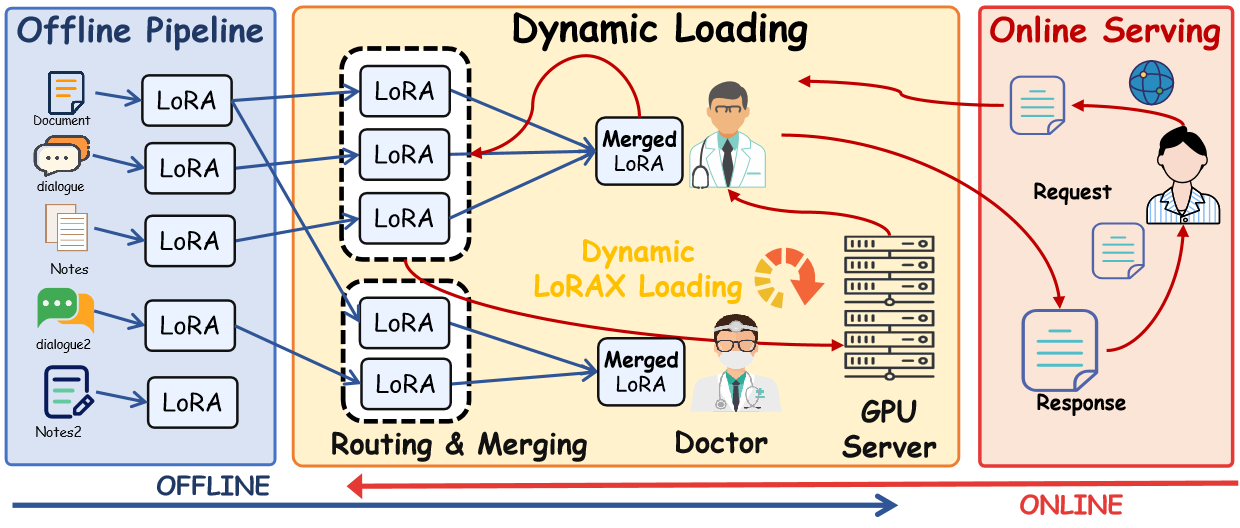
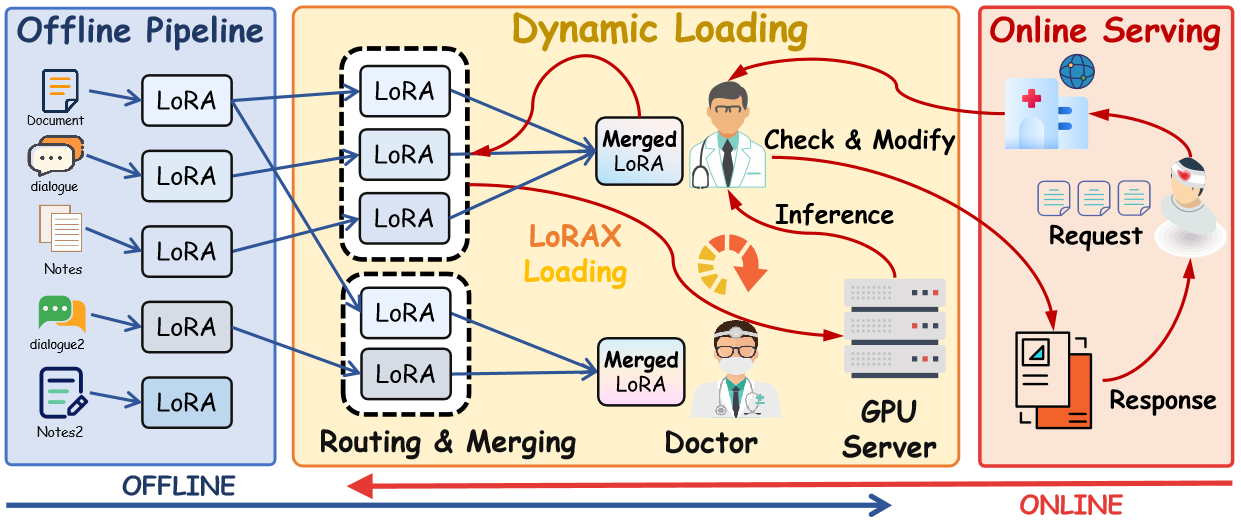
upd

diff --git a/section/section5evaluation.tex b/section/section5evaluation.tex
@@ -123,7 +123,7 @@ LoRA-Merge-TIES & 6.7 $|$ 10.1 $|$ 13.8 & 14.9 $|$ 20.2 $|$ 26.8 & 0.67 $|$ 0.72
 \setlength{\tabcolsep}{4pt}
 \renewcommand\arraystretch{1.06}
 \centering
-\caption{Human evaluation results across LLaMA-3.2-1B/3B and Qwen-2.5-7B. Each cell reports 1B $|$ 3B $|$ 7B. The LLM judge (Qwen3.6-35B-Instruct) rated generated responses on 5-point Likert scales. Preference (\%) is the fraction of blind A/B comparisons favoring the given method.}
+\caption{LLM evaluation results across LLaMA-3.2-1B/3B and Qwen-2.5-7B. Each cell reports 1B $|$ 3B $|$ 7B. The LLM judge (Qwen3.6-35B-Instruct) rated generated responses on 5-point Likert scales. Preference (\%) is the fraction of blind A/B comparisons favoring the given method.}
 \label{tab:ttft}
 \begin{tabular}{c|ccc|c}
 \toprule
@@ -154,7 +154,7 @@ Our Sign-Consistent Fusion (SCF) further improves upon TIES-MERGING, matching th
 The full WebDoctor system, which combines SCF with identity-based DAR routing and physician-specific prompt prefixes, preserves this performance, demonstrating that the merged deployment mode introduces no measurable personalization degradation.
 
 \subsubsection{LLM Judge Evaluation}
-Table~\ref{tab:ttft} presents the human evaluation results across model scales.
+Table~\ref{tab:ttft} presents the LLM evaluation results across model scales.
 The personalization gap between the Base Model and WebDoctor widens with model scale: from 1.4$\rightarrow$3.3 at 1B (+1.9 points) to 2.8$\rightarrow$4.5 at 7B (+1.7 points), suggesting that larger models have more expressive capacity to absorb physician-specific stylistic patterns.
 The Base Model receives a preference share of only 3--8\%, corroborating the automatic findings: physicians do not perceive generic outputs as matching their communication style at any scale.
 Shared LoRA achieves moderate improvement (preference 8--15\%), but still falls well below acceptable levels.
@@ -196,7 +196,7 @@ The merged SCF adapter occupies 6.8\,MB (equivalent to a single adapter) and is 
 End-to-end inference latency with the merged adapter is 0.9/1.8/3.2\,s per response (1B/3B/7B) on a single H20-3e GPU, identical to the individual adapter case, confirming that SCF introduces no computational overhead at inference time.
 
 \subsubsection{Ablation Study}
-We ablate the key design choices of WebDoctor, reporting BLEU-4 and human-evaluated personalization scores (5-point scale) across all three model scales.
+We ablate the key design choices of WebDoctor, reporting BLEU-4 and LLM-evaluated personalization scores (5-point scale) across all three model scales.
 Table~\ref{tab:ablation} (bottom block) presents the results.
 Removing the DAR router and relying solely on a generic prompt prefix (``w/o DAR'') causes a moderate drop across scales (BLEU-4 6.4/10.2/13.9, personalization 3.0/4.0/4.4), confirming that explicit physician identity conditioning via adaptive routing is important for stylistic fidelity.
 Disabling SCF and serving individual adapters (``w/o SCF'') preserves full personalization quality but at the cost of $K$-fold storage and loading overhead, as discussed above.

diff --git a/section/section1intro.tex b/section/section1intro.tex
@@ -4,7 +4,7 @@
 
 The rapid advancement of digital health technologies has propelled internet hospitals into a central role within modern healthcare delivery systems, particularly in regions with high patient-to-physician ratios~\cite{info:doi/10.2196/jmir.7854}. These platforms enable large-scale remote consultations, where patients submit textual descriptions of their symptoms and medical concerns, and licensed physicians respond with diagnostic guidance, treatment recommendations, and follow-up instructions. The doctor-patient dialogue generated in this setting constitutes a uniquely valuable corpus: it captures authentic clinical reasoning, physician-specific communication styles, and institutionally governed medical discourse at substantial scale.
 
-Large language models (LLMs)~\cite{touvronLlama2Open2023} have demonstrated remarkable capabilities across a wide range of natural language processing tasks, including clinical knowledge encoding~\cite{singhalLargeLanguageModels2023} and medical dialogue generation~\cite{zengMedDialogLargescaleMedical2020}. In the context of internet hospitals, deploying an LLM-based assistant to augment physicians during patient interactions holds significant promise: it can reduce documentation burden, suggest evidence-based responses, and improve the consistency of clinical communication. However, a critical limitation of current LLM deployment paradigms in healthcare settings is their tendency to produce \textit{generic, depersonalized} outputs. A single shared model, whether fine-tuned on aggregated clinical data or prompted with few-shot examples, cannot capture the nuanced linguistic preferences, departmental norms, specialty-specific terminology, and institutional policy constraints that distinguish one physician from another. This depersonalization undermines physician trust in AI-assisted tools and limits the practical adoption of LLMs in real-world clinical workflows~\cite{zhang2018personalizing}.
+Large language models (LLMs)~\cite{touvronLlama2Open2023} have demonstrated remarkable capabilities across a wide range of natural language processing tasks, including clinical knowledge encoding~\cite{singhalLargeLanguageModels2023} and medical dialogue generation~\cite{zengMedDialogLargescaleMedical2020}. In the context of internet hospitals, deploying an LLM-based assistant to augment physicians during patient interactions holds significant promise: it can reduce documentation burden, suggest evidence-based responses, and improve the consistency of clinical communication. However, a critical limitation of current LLM deployment paradigms in healthcare settings is their tendency to produce generic, depersonalized outputs. A single shared model, whether fine-tuned on aggregated clinical data or prompted with few-shot examples, cannot capture the nuanced linguistic preferences, departmental norms, specialty-specific terminology, and institutional policy constraints that distinguish one physician from another. This depersonalization undermines physician trust in AI-assisted tools and limits the practical adoption of LLMs in real-world clinical workflows~\cite{zhang2018personalizing}.
 
 % \input{figures/comparison}
 

diff --git a/section/section3method.tex b/section/section3method.tex
@@ -18,7 +18,7 @@ The key challenges are: (a) $N_k$ is typically small (tens to hundreds of exampl
 % \input{figures/method-overview}
 \begin{figure}[!t]
 \includegraphics[width=\textwidth]{figures/design.png}
-\caption{Overview of the three-stage personalized adaptation framework. Stage~1: Doctor-specific LoRA adapters are trained offline via LLaMA-Factory LoRA fine-tuning using each physician's historical consultation records. Stage~2: At inference time, the DAR router dynamically selects the appropriate adapter based on the patient query and target physician identity. Stage~3: SCF (TRIM $\rightarrow$ ELECT SIGN $\rightarrow$ MERGE) fuses multiple doctor-specific adapters into a single unified deployment artifact, enabling efficient multi-physician serving through a single inference endpoint.}
+\caption{Overview of the three-stage personalized adaptation framework. Offline: Doctor-specific LoRA adapters are trained offline via LoRA fine-tuning using each physician's historical consultation records. Online: At inference time, the DAR router dynamically selects the appropriate adapter based on the patient query and target physician identity. SCF fuses multiple doctor-specific adapters into a single unified deployment artifact with LoRAX, enabling efficient multi-physician serving through a single inference endpoint.}
 \label{fig:method-overview}
 \end{figure}   
 \unskip

diff --git a/section/section4implementation.tex b/section/section4implementation.tex
@@ -25,6 +25,6 @@ The WebDoctor service is implemented as a modular pipeline comprising four stage
 
 \textbf{Stage 3: DAR Router.} The router encodes physician style descriptions $s_k$ using a distilled Sentence-BERT model~\cite{reimers2019sentence} (384-dimensional embeddings) pre-computed offline and stored in an in-memory FAISS index~\cite{johnson2019faiss}. At inference time, the patient query is encoded on-the-fly, and the top-$m$ most similar physician adapters are retrieved. For identity-based routing, this step is bypassed entirely, and the system directly loads the prescribed adapter.
 
-\textbf{Stage 4: Inference with Merged Adapters.} We leverage LoRAX~\cite{lorax2024}, an open-source multi-LoRA inference server, for dynamic adapter loading and swapping at inference time. LoRAX enables hot-swapping of LoRA adapters without reloading the base model, supporting two deployment modes: (a) per-adapter serving, where each physician's LoRA adapter is loaded on demand via LoRAX and applied to the base model for generation (suitable for low-traffic scenarios or A/B testing); and (b) merged-adapter serving, where SCF is applied offline to produce a single merged adapter that is pre-loaded, and generation is conditioned on a physician-identifying prompt prefix. The merged mode supports a prompt template: ``\textit{string[Department: \{dept\}\string] \string[Physician ID: \{doc\_id\}\string] Patient: \{query\}$\backslash$Doctor:}'' that cues the model to generate in the appropriate personalized style.
+\textbf{Stage 4: Inference with Merged Adapters.} We leverage LoRAX~\cite{lorax2024}, an open-source multi-LoRA inference server, for dynamic adapter loading and swapping at inference time. LoRAX enables hot-swapping of LoRA adapters without reloading the base model, supporting two deployment modes: (a) per-adapter serving, where each physician's LoRA adapter is loaded on demand via LoRAX and applied to the base model for generation (suitable for low-traffic scenarios or A/B testing); and (b) merged-adapter serving, where SCF is applied offline to produce a single merged adapter that is pre-loaded, and generation is conditioned on a physician-identifying prompt prefix. The merged mode supports a prompt template: ``\texttt{string[Department: \{dept\}] [Physician ID: \{doc\_id\}] Patient: \{query\}$\backslash$Doctor:}'' that cues the model to generate in the appropriate personalized style.
 
 % \textbf{Inference Optimization.} We use FlashAttention-2 (xformers 0.0.31) for efficient attention computation. For memory-constrained deployments, QLoRA~\cite{dettmers2023qlora} can be employed to quantize the base model to 4-bit without significant performance degradation. Inference is served via vLLM 0.10.0, achieving an end-to-end latency of 1.2--2.8 seconds per response on a single H20-3e GPU, which meets the real-time requirements of internet hospital consultation workflows.

diff --git a/section/section6discussion.tex b/section/section6discussion.tex
@@ -9,7 +9,7 @@ Our results demonstrate that physician-specific adaptation is both necessary and
 Several limitations warrant discussion. First, the IHDPD dataset originates from a single internet hospital; cross-institutional validation across different healthcare systems, languages, and regulatory environments is needed. Second, our approach captures stylistic and terminological preferences rather than deeper clinical reasoning patterns, limiting its applicability to physicians whose distinctiveness lies in diagnostic decision logic. Third, under suboptimal SCF trim fractions, the remaining retention gap may be perceptible for physicians with highly idiosyncratic styles; a hybrid strategy where outlier physicians retain individual adapters may be a practical compromise. Fourth, our evaluation relies on LLM-as-a-Judge assessments; future work should incorporate independent physician evaluators.
 
 \subsection{Ethical Considerations}
-Ethically, personalized LLM deployment must preserve physician autonomy. The final decision to adopt or reject AI-generated suggestions remains with the clinician, and institutional policies should mandate appropriate-use training to prevent automation bias. We note that physician-specific personalization may actually \textit{reduce} uncritical adoption compared to generic outputs, as physicians can more readily evaluate suggestions framed in their own clinical language. Clear governance frameworks for accountability remain essential.
+Ethically, personalized LLM deployment must preserve physician autonomy. The final decision to adopt or reject AI-generated suggestions remains with the clinician, and institutional policies should mandate appropriate-use training to prevent automation bias. We note that physician-specific personalization may actually reduce uncritical adoption compared to generic outputs, as physicians can more readily evaluate suggestions framed in their own clinical language. Clear governance frameworks for accountability remain essential.
 
 \subsection{Future Work}
 